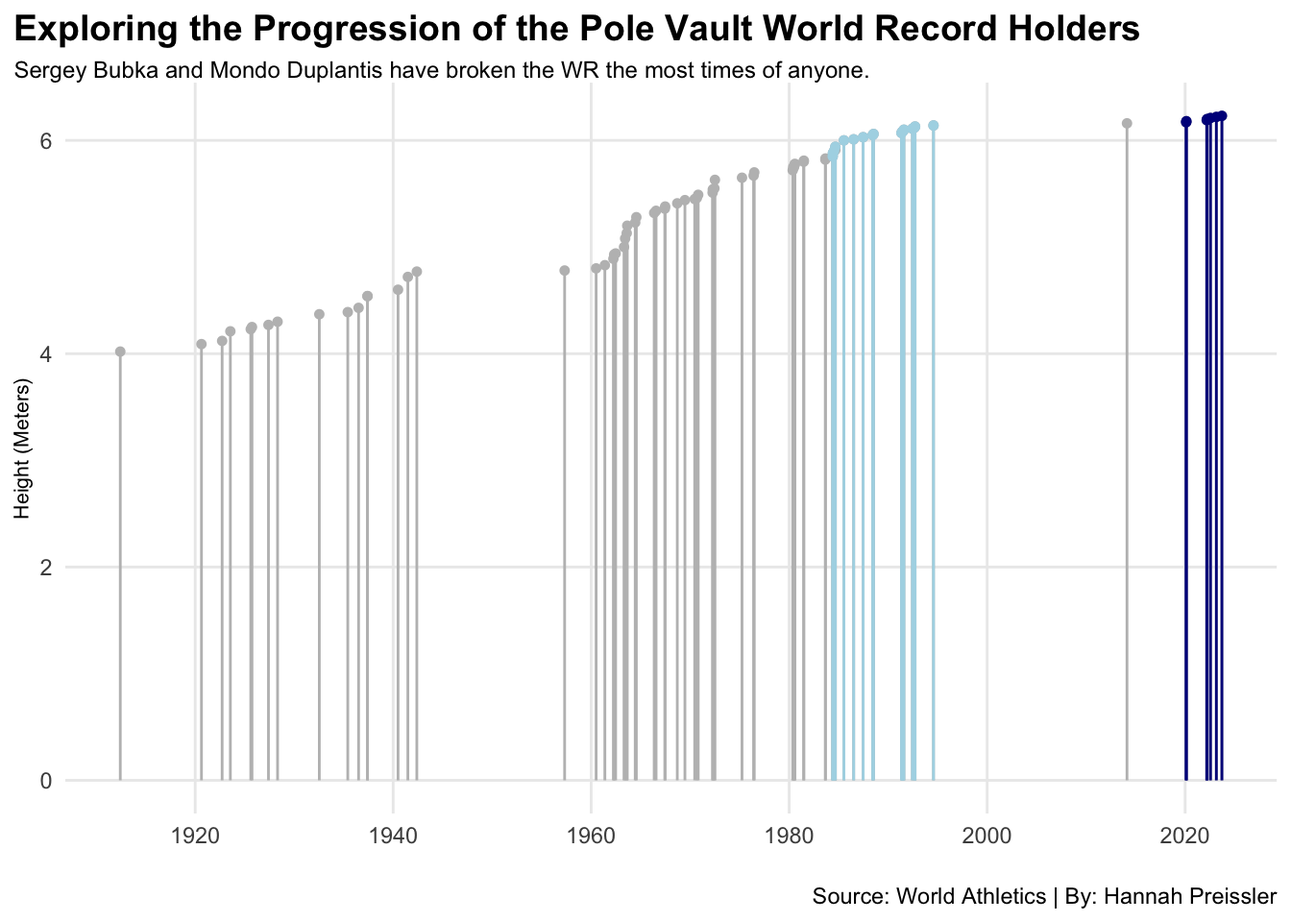
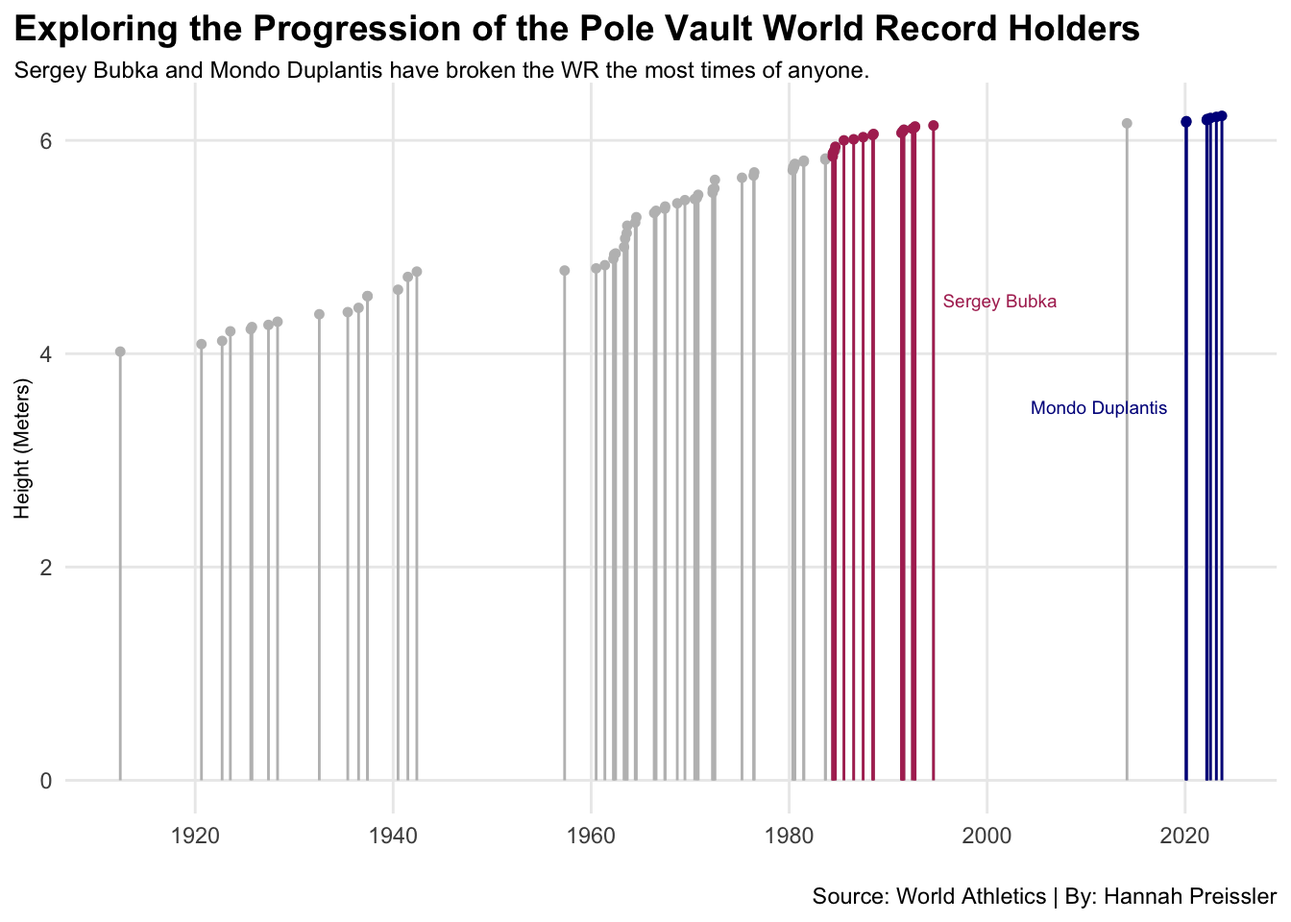
Work

Changed region(s): [[0.625, 0.125, 0.8125, 0.8438], [0.7812, 0.4375, 0.9062, 0.4688]]

diff --git a/posts/mondo-is-the-best-pole-vaulter-in-the-world/index.html b/posts/mondo-is-the-best-pole-vaulter-in-the-world/index.html
@@ -253,8 +253,7 @@ pre > code.sourceCode > span > a:first-child::before { text-decoration: underlin
 <span id="cb1-65"><a href="#cb1-65" aria-hidden="true" tabindex="-1"></a>    <span class="at">axis.title =</span> <span class="fu">element_text</span>(<span class="at">size =</span> <span class="dv">8</span>), </span>
 <span id="cb1-66"><a href="#cb1-66" aria-hidden="true" tabindex="-1"></a>    <span class="at">plot.subtitle =</span> <span class="fu">element_textbox_simple</span>(<span class="at">size=</span><span class="dv">9</span>), </span>
 <span id="cb1-67"><a href="#cb1-67" aria-hidden="true" tabindex="-1"></a>    <span class="at">panel.grid.minor =</span> <span class="fu">element_blank</span>(),</span>
-<span id="cb1-68"><a href="#cb1-68" aria-hidden="true" tabindex="-1"></a>    <span class="at">plot.title.position =</span> <span class="st">"plot"</span></span>
-<span id="cb1-69"><a href="#cb1-69" aria-hidden="true" tabindex="-1"></a>   )</span></code><button title="Copy to Clipboard" class="code-copy-button"><i class="bi"></i></button></pre></div>
+<span id="cb1-68"><a href="#cb1-68" aria-hidden="true" tabindex="-1"></a>    <span class="at">plot.title.position =</span> <span class="st">"plot"</span>)</span></code><button title="Copy to Clipboard" class="code-copy-button"><i class="bi"></i></button></pre></div>
 </details>
 <div class="cell-output-display">
 <p><img src="index_files/figure-html/unnamed-chunk-1-1.png" class="img-fluid" width="672"></p>
@@ -262,7 +261,7 @@ pre > code.sourceCode > span > a:first-child::before { text-decoration: underlin
 </div>
 <p>Understanding the sheer amount of time that he has had to develop as a pole vaulter, is very important when looking at what makes Mondo the best pole vaulter in the world.<br>
 </p>
-<p>With the Olympics being in 2020, (Technically completed in 2021 due to COVID-19) this is a good season to compare Mondo's stats to his competitors. Among the other top ten pro vaulters in the world, Mondo averaged the highest bars cleared, averaged the best place finishes, and competed in the third most meets. He is by far, the most consistent vaulter which allows him to succeed on the runway.</p>
+<p>With the Olympics being in 2020, (Technically completed in 2021 due to COVID-19) this is a good season to compare Mondo’s stats to his competitors. Among the other top ten pro vaulters in the world, Mondo averaged the highest bars cleared, averaged the best place finishes, and competed in the third most meets. He is by far, the most consistent vaulter which allows him to succeed on the runway.</p>
 <div class="cell">
 <details>
 <summary>Code</summary>
@@ -273,40 +272,39 @@ pre > code.sourceCode > span > a:first-child::before { text-decoration: underlin
 <span id="cb2-5"><a href="#cb2-5" aria-hidden="true" tabindex="-1"></a>  <span class="fu">summarize</span>(</span>
 <span id="cb2-6"><a href="#cb2-6" aria-hidden="true" tabindex="-1"></a>    <span class="at">Competitions =</span> <span class="fu">n</span>(),</span>
 <span id="cb2-7"><a href="#cb2-7" aria-hidden="true" tabindex="-1"></a>    <span class="at">AvgResult =</span> <span class="fu">mean</span>(Result),</span>
-<span id="cb2-8"><a href="#cb2-8" aria-hidden="true" tabindex="-1"></a>    <span class="at">AvgPlace =</span> <span class="fu">mean</span>(Place)</span>
-<span id="cb2-9"><a href="#cb2-9" aria-hidden="true" tabindex="-1"></a>  )</span>
-<span id="cb2-10"><a href="#cb2-10" aria-hidden="true" tabindex="-1"></a></span>
-<span id="cb2-11"><a href="#cb2-11" aria-hidden="true" tabindex="-1"></a>mondocomps <span class="ot">&lt;-</span> competitionresults <span class="sc">|&gt;</span> </span>
-<span id="cb2-12"><a href="#cb2-12" aria-hidden="true" tabindex="-1"></a>  <span class="fu">filter</span>(Name <span class="sc">==</span> <span class="st">"Mondo Duplantis"</span>)</span>
-<span id="cb2-13"><a href="#cb2-13" aria-hidden="true" tabindex="-1"></a>chriscomps <span class="ot">&lt;-</span> competitionresults <span class="sc">|&gt;</span></span>
-<span id="cb2-14"><a href="#cb2-14" aria-hidden="true" tabindex="-1"></a>  <span class="fu">filter</span>(<span class="fu">str_trim</span>(Name) <span class="sc">==</span> <span class="st">"Chris Nilsen"</span>)</span>
-<span id="cb2-15"><a href="#cb2-15" aria-hidden="true" tabindex="-1"></a>ernestcomps <span class="ot">&lt;-</span> competitionresults <span class="sc">|&gt;</span></span>
-<span id="cb2-16"><a href="#cb2-16" aria-hidden="true" tabindex="-1"></a>  <span class="fu">filter</span>(Name <span class="sc">==</span> <span class="st">"Ernest John Obiena"</span>)</span>
-<span id="cb2-17"><a href="#cb2-17" aria-hidden="true" tabindex="-1"></a>kccomps <span class="ot">&lt;-</span> competitionresults <span class="sc">|&gt;</span></span>
-<span id="cb2-18"><a href="#cb2-18" aria-hidden="true" tabindex="-1"></a>  <span class="fu">filter</span>(Name<span class="sc">==</span> <span class="st">"KC Lightfoot"</span>)</span>
-<span id="cb2-19"><a href="#cb2-19" aria-hidden="true" tabindex="-1"></a>                      </span>
-<span id="cb2-20"><a href="#cb2-20" aria-hidden="true" tabindex="-1"></a><span class="fu">ggplot</span>() <span class="sc">+</span> </span>
-<span id="cb2-21"><a href="#cb2-21" aria-hidden="true" tabindex="-1"></a>  <span class="fu">geom_point</span>(<span class="at">data=</span>competitionresults,<span class="fu">aes</span>(<span class="at">x=</span>AvgPlace, <span class="at">y=</span>AvgResult, <span class="at">size=</span> Competitions), <span class="at">color=</span><span class="st">"lightgrey"</span>)<span class="sc">+</span></span>
-<span id="cb2-22"><a href="#cb2-22" aria-hidden="true" tabindex="-1"></a>  <span class="fu">geom_point</span>(<span class="at">data=</span>mondocomps, <span class="fu">aes</span>(<span class="at">x=</span>AvgPlace, <span class="at">y=</span>AvgResult, <span class="at">size=</span> Competitions), <span class="at">color=</span><span class="st">"purple"</span>)<span class="sc">+</span></span>
-<span id="cb2-23"><a href="#cb2-23" aria-hidden="true" tabindex="-1"></a>  <span class="fu">geom_point</span>(<span class="at">data=</span>ernestcomps, <span class="fu">aes</span>(<span class="at">x=</span>AvgPlace, <span class="at">y=</span>AvgResult, <span class="at">size=</span> Competitions), <span class="at">color=</span><span class="st">"red"</span>)<span class="sc">+</span></span>
-<span id="cb2-24"><a href="#cb2-24" aria-hidden="true" tabindex="-1"></a>   <span class="fu">geom_point</span>(<span class="at">data=</span>chriscomps, <span class="fu">aes</span>(<span class="at">x=</span>AvgPlace, <span class="at">y=</span>AvgResult, <span class="at">size=</span> Competitions), <span class="at">color=</span><span class="st">"darkblue"</span>)<span class="sc">+</span></span>
-<span id="cb2-25"><a href="#cb2-25" aria-hidden="true" tabindex="-1"></a>  <span class="fu">geom_text_repel</span>(<span class="at">data=</span>mondocomps, <span class="fu">aes</span>(<span class="at">x=</span>AvgPlace, <span class="at">y=</span>AvgResult, <span class="at">label=</span>Name), <span class="at">size =</span> <span class="dv">3</span>) <span class="sc">+</span></span>
-<span id="cb2-26"><a href="#cb2-26" aria-hidden="true" tabindex="-1"></a>  <span class="fu">geom_text_repel</span>(<span class="at">data=</span>chriscomps, <span class="fu">aes</span>(<span class="at">x=</span>AvgPlace, <span class="at">y=</span>AvgResult, <span class="at">label=</span>Name), <span class="at">size =</span> <span class="dv">3</span>) <span class="sc">+</span></span>
-<span id="cb2-27"><a href="#cb2-27" aria-hidden="true" tabindex="-1"></a>  <span class="fu">geom_text_repel</span>(<span class="at">data=</span>ernestcomps, <span class="fu">aes</span>(<span class="at">x=</span>AvgPlace, <span class="at">y=</span>AvgResult, <span class="at">label=</span>Name), <span class="at">size =</span> <span class="dv">3</span>) <span class="sc">+</span></span>
-<span id="cb2-28"><a href="#cb2-28" aria-hidden="true" tabindex="-1"></a>  <span class="fu">geom_text_repel</span>(<span class="at">data=</span>kccomps, <span class="fu">aes</span>(<span class="at">x=</span>AvgPlace, <span class="at">y=</span>AvgResult, <span class="at">label=</span>Name), <span class="at">size =</span> <span class="dv">3</span>) <span class="sc">+</span></span>
-<span id="cb2-29"><a href="#cb2-29" aria-hidden="true" tabindex="-1"></a>    <span class="fu">labs</span>(<span class="at">title =</span> <span class="st">"Top 10 Pro Pole Vaulters: A Spotlight on 2020 Season Achievements"</span>, </span>
-<span id="cb2-30"><a href="#cb2-30" aria-hidden="true" tabindex="-1"></a>    <span class="at">subtitle =</span><span class="st">"Mondo is constantly winning meets and jumping the highest against top performers repeatedly."</span>, </span>
-<span id="cb2-31"><a href="#cb2-31" aria-hidden="true" tabindex="-1"></a>    <span class="at">y=</span><span class="st">"Height (Meters)"</span>, </span>
-<span id="cb2-32"><a href="#cb2-32" aria-hidden="true" tabindex="-1"></a>    <span class="at">x=</span><span class="st">"Aveage Placing at Competitions"</span>,</span>
-<span id="cb2-33"><a href="#cb2-33" aria-hidden="true" tabindex="-1"></a>    <span class="at">caption=</span><span class="st">"Source: World Athletics | By: Hannah Preissler"</span>) <span class="sc">+</span></span>
-<span id="cb2-34"><a href="#cb2-34" aria-hidden="true" tabindex="-1"></a>  <span class="fu">theme_minimal</span>() <span class="sc">+</span></span>
-<span id="cb2-35"><a href="#cb2-35" aria-hidden="true" tabindex="-1"></a>  <span class="fu">theme</span>(</span>
-<span id="cb2-36"><a href="#cb2-36" aria-hidden="true" tabindex="-1"></a>    <span class="at">plot.title =</span> <span class="fu">element_text</span>(<span class="at">size =</span> <span class="dv">14</span>, <span class="at">face =</span> <span class="st">"bold"</span>),</span>
-<span id="cb2-37"><a href="#cb2-37" aria-hidden="true" tabindex="-1"></a>    <span class="at">axis.title =</span> <span class="fu">element_text</span>(<span class="at">size =</span> <span class="dv">8</span>), </span>
-<span id="cb2-38"><a href="#cb2-38" aria-hidden="true" tabindex="-1"></a>    <span class="at">plot.subtitle =</span> <span class="fu">element_textbox_simple</span>(<span class="at">size=</span><span class="dv">9</span>), </span>
-<span id="cb2-39"><a href="#cb2-39" aria-hidden="true" tabindex="-1"></a>    <span class="at">panel.grid.minor =</span> <span class="fu">element_blank</span>(),</span>
-<span id="cb2-40"><a href="#cb2-40" aria-hidden="true" tabindex="-1"></a>    <span class="at">plot.title.position =</span> <span class="st">"plot"</span></span>
-<span id="cb2-41"><a href="#cb2-41" aria-hidden="true" tabindex="-1"></a>  )</span></code><button title="Copy to Clipboard" class="code-copy-button"><i class="bi"></i></button></pre></div>
+<span id="cb2-8"><a href="#cb2-8" aria-hidden="true" tabindex="-1"></a>    <span class="at">AvgPlace =</span> <span class="fu">mean</span>(Place))</span>
+<span id="cb2-9"><a href="#cb2-9" aria-hidden="true" tabindex="-1"></a></span>
+<span id="cb2-10"><a href="#cb2-10" aria-hidden="true" tabindex="-1"></a>mondocomps <span class="ot">&lt;-</span> competitionresults <span class="sc">|&gt;</span> </span>
+<span id="cb2-11"><a href="#cb2-11" aria-hidden="true" tabindex="-1"></a>  <span class="fu">filter</span>(Name <span class="sc">==</span> <span class="st">"Mondo Duplantis"</span>)</span>
+<span id="cb2-12"><a href="#cb2-12" aria-hidden="true" tabindex="-1"></a>chriscomps <span class="ot">&lt;-</span> competitionresults <span class="sc">|&gt;</span></span>
+<span id="cb2-13"><a href="#cb2-13" aria-hidden="true" tabindex="-1"></a>  <span class="fu">filter</span>(<span class="fu">str_trim</span>(Name) <span class="sc">==</span> <span class="st">"Chris Nilsen"</span>)</span>
+<span id="cb2-14"><a href="#cb2-14" aria-hidden="true" tabindex="-1"></a>ernestcomps <span class="ot">&lt;-</span> competitionresults <span class="sc">|&gt;</span></span>
+<span id="cb2-15"><a href="#cb2-15" aria-hidden="true" tabindex="-1"></a>  <span class="fu">filter</span>(Name <span class="sc">==</span> <span class="st">"Ernest John Obiena"</span>)</span>
+<span id="cb2-16"><a href="#cb2-16" aria-hidden="true" tabindex="-1"></a>kccomps <span class="ot">&lt;-</span> competitionresults <span class="sc">|&gt;</span></span>
+<span id="cb2-17"><a href="#cb2-17" aria-hidden="true" tabindex="-1"></a>  <span class="fu">filter</span>(Name<span class="sc">==</span> <span class="st">"KC Lightfoot"</span>)</span>
+<span id="cb2-18"><a href="#cb2-18" aria-hidden="true" tabindex="-1"></a>                      </span>
+<span id="cb2-19"><a href="#cb2-19" aria-hidden="true" tabindex="-1"></a><span class="fu">ggplot</span>() <span class="sc">+</span> </span>
+<span id="cb2-20"><a href="#cb2-20" aria-hidden="true" tabindex="-1"></a>  <span class="fu">geom_point</span>(<span class="at">data=</span>competitionresults,<span class="fu">aes</span>(<span class="at">x=</span>AvgPlace, <span class="at">y=</span>AvgResult, <span class="at">size=</span> Competitions), <span class="at">color=</span><span class="st">"lightgrey"</span>)<span class="sc">+</span></span>
+<span id="cb2-21"><a href="#cb2-21" aria-hidden="true" tabindex="-1"></a>  <span class="fu">geom_point</span>(<span class="at">data=</span>mondocomps, <span class="fu">aes</span>(<span class="at">x=</span>AvgPlace, <span class="at">y=</span>AvgResult, <span class="at">size=</span> Competitions), <span class="at">color=</span><span class="st">"maroon"</span>)<span class="sc">+</span></span>
+<span id="cb2-22"><a href="#cb2-22" aria-hidden="true" tabindex="-1"></a>  <span class="fu">geom_point</span>(<span class="at">data=</span>ernestcomps, <span class="fu">aes</span>(<span class="at">x=</span>AvgPlace, <span class="at">y=</span>AvgResult, <span class="at">size=</span> Competitions), <span class="at">color=</span><span class="st">"lightblue"</span>)<span class="sc">+</span></span>
+<span id="cb2-23"><a href="#cb2-23" aria-hidden="true" tabindex="-1"></a>   <span class="fu">geom_point</span>(<span class="at">data=</span>chriscomps, <span class="fu">aes</span>(<span class="at">x=</span>AvgPlace, <span class="at">y=</span>AvgResult, <span class="at">size=</span> Competitions), <span class="at">color=</span><span class="st">"darkblue"</span>)<span class="sc">+</span></span>
+<span id="cb2-24"><a href="#cb2-24" aria-hidden="true" tabindex="-1"></a>  <span class="fu">geom_text_repel</span>(<span class="at">data=</span>mondocomps, <span class="fu">aes</span>(<span class="at">x=</span>AvgPlace, <span class="at">y=</span>AvgResult, <span class="at">label=</span>Name), <span class="at">size =</span> <span class="dv">3</span>) <span class="sc">+</span></span>
+<span id="cb2-25"><a href="#cb2-25" aria-hidden="true" tabindex="-1"></a>  <span class="fu">geom_text_repel</span>(<span class="at">data=</span>chriscomps, <span class="fu">aes</span>(<span class="at">x=</span>AvgPlace, <span class="at">y=</span>AvgResult, <span class="at">label=</span>Name), <span class="at">size =</span> <span class="dv">3</span>) <span class="sc">+</span></span>
+<span id="cb2-26"><a href="#cb2-26" aria-hidden="true" tabindex="-1"></a>  <span class="fu">geom_text_repel</span>(<span class="at">data=</span>ernestcomps, <span class="fu">aes</span>(<span class="at">x=</span>AvgPlace, <span class="at">y=</span>AvgResult, <span class="at">label=</span>Name), <span class="at">size =</span> <span class="dv">3</span>) <span class="sc">+</span></span>
+<span id="cb2-27"><a href="#cb2-27" aria-hidden="true" tabindex="-1"></a>  <span class="fu">geom_text_repel</span>(<span class="at">data=</span>kccomps, <span class="fu">aes</span>(<span class="at">x=</span>AvgPlace, <span class="at">y=</span>AvgResult, <span class="at">label=</span>Name), <span class="at">size =</span> <span class="dv">3</span>) <span class="sc">+</span></span>
+<span id="cb2-28"><a href="#cb2-28" aria-hidden="true" tabindex="-1"></a>    <span class="fu">labs</span>(<span class="at">title =</span> <span class="st">"Top 10 Pro Pole Vaulters: A Spotlight on 2020 Season Achievements"</span>, </span>
+<span id="cb2-29"><a href="#cb2-29" aria-hidden="true" tabindex="-1"></a>    <span class="at">subtitle =</span><span class="st">"Mondo is constantly winning meets and jumping the highest against top performers repeatedly."</span>, </span>
+<span id="cb2-30"><a href="#cb2-30" aria-hidden="true" tabindex="-1"></a>    <span class="at">y=</span><span class="st">"Height (Meters)"</span>, </span>
+<span id="cb2-31"><a href="#cb2-31" aria-hidden="true" tabindex="-1"></a>    <span class="at">x=</span><span class="st">"Aveage Placing at Competitions"</span>,</span>
+<span id="cb2-32"><a href="#cb2-32" aria-hidden="true" tabindex="-1"></a>    <span class="at">caption=</span><span class="st">"Source: World Athletics | By: Hannah Preissler"</span>) <span class="sc">+</span></span>
+<span id="cb2-33"><a href="#cb2-33" aria-hidden="true" tabindex="-1"></a>  <span class="fu">theme_minimal</span>() <span class="sc">+</span></span>
+<span id="cb2-34"><a href="#cb2-34" aria-hidden="true" tabindex="-1"></a>  <span class="fu">theme</span>(</span>
+<span id="cb2-35"><a href="#cb2-35" aria-hidden="true" tabindex="-1"></a>    <span class="at">plot.title =</span> <span class="fu">element_text</span>(<span class="at">size =</span> <span class="dv">14</span>, <span class="at">face =</span> <span class="st">"bold"</span>),</span>
+<span id="cb2-36"><a href="#cb2-36" aria-hidden="true" tabindex="-1"></a>    <span class="at">axis.title =</span> <span class="fu">element_text</span>(<span class="at">size =</span> <span class="dv">8</span>), </span>
+<span id="cb2-37"><a href="#cb2-37" aria-hidden="true" tabindex="-1"></a>    <span class="at">plot.subtitle =</span> <span class="fu">element_textbox_simple</span>(<span class="at">size=</span><span class="dv">9</span>), </span>
+<span id="cb2-38"><a href="#cb2-38" aria-hidden="true" tabindex="-1"></a>    <span class="at">panel.grid.minor =</span> <span class="fu">element_blank</span>(),</span>
+<span id="cb2-39"><a href="#cb2-39" aria-hidden="true" tabindex="-1"></a>    <span class="at">plot.title.position =</span> <span class="st">"plot"</span></span>
+<span id="cb2-40"><a href="#cb2-40" aria-hidden="true" tabindex="-1"></a>  )</span></code><button title="Copy to Clipboard" class="code-copy-button"><i class="bi"></i></button></pre></div>
 </details>
 <div class="cell-output-display">
 <p><img src="index_files/figure-html/unnamed-chunk-2-1.png" class="img-fluid" width="672"></p>
@@ -314,8 +312,8 @@ pre > code.sourceCode > span > a:first-child::before { text-decoration: underlin
 </div>
 <p>The final component that contributes to Mondo being the most dominant pole vaulter is his ability to break the world record… more than once.</p>
 <p>The world record data dates back to 1912 and has been pushed higher and higher throughout the years while being passed from athlete to athlete with two standing out among the others.</p>
-<p>Sergey Bubka is a former Ukrainian pole vaulter who pioneered the sport. Many vaulters look to him as the picture of technique when it comes to vaulting. Sergey first broke the world record in 1984 clearing 5.94 m (19’5”). He continued to break his world record sixteen more times over his career clearing 6.14 m (20’1”). Sergey’s world record reign is highlighted by the light blue lines.</p>
-<p>Mondo took off right where Sergey left off. Again, in his rookie year, he broke the world record by clearing 6.17 m (20’2”). He has continued to break this record six times since 2020.</p>
+<p>Sergey Bubka is a former Ukrainian pole vaulter who pioneered the sport. Many vaulters look to him as the picture of technique when it comes to vaulting. Sergey first broke the world record in 1984 clearing 5.94 m (19’5”). He continued to break his world record sixteen more times over his career clearing 6.14 m (20’1”). Sergey’s world record reign is highlighted by the maroon lines.</p>
+<p>Mondo took off right where Sergey left off. Again, in his rookie year, he broke the world record by clearing 6.17 m (20’2”). He has continued to break this record six times since 2020. Mondo’s world records are highlighted by the dark blue lines.</p>
 <div class="cell">
 <details>
 <summary>Code</summary>
@@ -331,28 +329,28 @@ pre > code.sourceCode > span > a:first-child::before { text-decoration: underlin
 <span id="cb3-10"><a href="#cb3-10" aria-hidden="true" tabindex="-1"></a></span>
 <span id="cb3-11"><a href="#cb3-11" aria-hidden="true" tabindex="-1"></a><span class="fu">ggplot</span>() <span class="sc">+</span> </span>
 <span id="cb3-12"><a href="#cb3-12" aria-hidden="true" tabindex="-1"></a>  <span class="fu">geom_lollipop</span>(<span class="at">data=</span>worldrecord, <span class="fu">aes</span>(<span class="at">y=</span>Meters, <span class="at">x=</span>Date), <span class="at">horizontal =</span> <span class="cn">FALSE</span>, <span class="at">color =</span><span class="st">"grey"</span>)<span class="sc">+</span></span>
-<span id="cb3-13"><a href="#cb3-13" aria-hidden="true" tabindex="-1"></a>  <span class="fu">geom_lollipop</span>(<span class="at">data=</span>sergeywr, <span class="fu">aes</span>(<span class="at">y=</span>Meters, <span class="at">x=</span>Date), <span class="at">horizontal =</span> <span class="cn">FALSE</span>, <span class="at">color=</span><span class="st">"lightblue"</span>)<span class="sc">+</span></span>
-<span id="cb3-14"><a href="#cb3-14" aria-hidden="true" tabindex="-1"></a>   <span class="fu">geom_lollipop</span>(<span class="at">data=</span>mondowr, <span class="fu">aes</span>(<span class="at">y=</span>Meters, <span class="at">x=</span>Date), <span class="at">horizontal =</span> <span class="cn">FALSE</span>, <span class="at">color=</span><span class="st">"darkblue"</span>)<span class="sc">+</span></span>
-<span id="cb3-15"><a href="#cb3-15" aria-hidden="true" tabindex="-1"></a>  <span class="fu">labs</span>(<span class="at">title =</span> <span class="st">"Exploring the Progression of the Pole Vault World Record Holders"</span>, </span>
-<span id="cb3-16"><a href="#cb3-16" aria-hidden="true" tabindex="-1"></a>    <span class="at">subtitle =</span><span class="st">"Sergey Bubka and Mondo Duplantis have broken the WR the most times of anyone."</span>, </span>
-<span id="cb3-17"><a href="#cb3-17" aria-hidden="true" tabindex="-1"></a>    <span class="at">y=</span><span class="st">"Height (Meters)"</span>, </span>
-<span id="cb3-18"><a href="#cb3-18" aria-hidden="true" tabindex="-1"></a>    <span class="at">x=</span><span class="st">""</span>,</span>
-<span id="cb3-19"><a href="#cb3-19" aria-hidden="true" tabindex="-1"></a>    <span class="at">caption=</span><span class="st">"Source: World Athletics | By: Hannah Preissler"</span>) <span class="sc">+</span></span>
-<span id="cb3-20"><a href="#cb3-20" aria-hidden="true" tabindex="-1"></a>  <span class="fu">theme_minimal</span>() <span class="sc">+</span></span>
-<span id="cb3-21"><a href="#cb3-21" aria-hidden="true" tabindex="-1"></a>  <span class="fu">theme</span>(</span>
-<span id="cb3-22"><a href="#cb3-22" aria-hidden="true" tabindex="-1"></a>    <span class="at">plot.title =</span> <span class="fu">element_text</span>(<span class="at">size =</span> <span class="dv">14</span>, <span class="at">face =</span> <span class="st">"bold"</span>),</span>
-<span id="cb3-23"><a href="#cb3-23" aria-hidden="true" tabindex="-1"></a>    <span class="at">axis.title =</span> <span class="fu">element_text</span>(<span class="at">size =</span> <span class="dv">8</span>), </span>
-<span id="cb3-24"><a href="#cb3-24" aria-hidden="true" tabindex="-1"></a>    <span class="at">plot.subtitle =</span> <span class="fu">element_textbox_simple</span>(<span class="at">size=</span><span class="dv">9</span>), </span>
-<span id="cb3-25"><a href="#cb3-25" aria-hidden="true" tabindex="-1"></a>    <span class="at">panel.grid.minor =</span> <span class="fu">element_blank</span>(),</span>
-<span id="cb3-26"><a href="#cb3-26" aria-hidden="true" tabindex="-1"></a>    <span class="at">plot.title.position =</span> <span class="st">"plot"</span></span>
-<span id="cb3-27"><a href="#cb3-27" aria-hidden="true" tabindex="-1"></a>  )</span></code><button title="Copy to Clipboard" class="code-copy-button"><i class="bi"></i></button></pre></div>
+<span id="cb3-13"><a href="#cb3-13" aria-hidden="true" tabindex="-1"></a>  <span class="fu">geom_lollipop</span>(<span class="at">data=</span>sergeywr, <span class="fu">aes</span>(<span class="at">y=</span>Meters, <span class="at">x=</span>Date), <span class="at">horizontal =</span> <span class="cn">FALSE</span>, <span class="at">color=</span><span class="st">"maroon"</span>)<span class="sc">+</span></span>
+<span id="cb3-14"><a href="#cb3-14" aria-hidden="true" tabindex="-1"></a>  <span class="fu">geom_lollipop</span>(<span class="at">data=</span>mondowr, <span class="fu">aes</span>(<span class="at">y=</span>Meters, <span class="at">x=</span>Date), <span class="at">horizontal =</span> <span class="cn">FALSE</span>, <span class="at">color=</span><span class="st">"darkblue"</span>)<span class="sc">+</span></span>
+<span id="cb3-15"><a href="#cb3-15" aria-hidden="true" tabindex="-1"></a>  <span class="fu">geom_text</span>(<span class="fu">aes</span>(<span class="at">x=</span><span class="fu">as.Date</span>(<span class="st">"2001-05-01"</span>), <span class="at">y=</span><span class="fl">4.5</span>, <span class="at">label=</span><span class="st">"Sergey Bubka"</span>), <span class="at">color=</span><span class="st">"maroon"</span>, <span class="at">size=</span> <span class="fl">2.5</span>) <span class="sc">+</span></span>
+<span id="cb3-16"><a href="#cb3-16" aria-hidden="true" tabindex="-1"></a>  <span class="fu">geom_text</span>(<span class="fu">aes</span>(<span class="at">x=</span><span class="fu">as.Date</span>(<span class="st">"2011-05-01"</span>), <span class="at">y=</span><span class="fl">3.5</span>, <span class="at">label=</span><span class="st">"Mondo Duplantis"</span>), <span class="at">color=</span><span class="st">"darkblue"</span>, <span class="at">size=</span> <span class="fl">2.5</span>) <span class="sc">+</span></span>
+<span id="cb3-17"><a href="#cb3-17" aria-hidden="true" tabindex="-1"></a>  <span class="fu">labs</span>(<span class="at">title =</span> <span class="st">"Exploring the Progression of the Pole Vault World Record Holders"</span>, </span>
+<span id="cb3-18"><a href="#cb3-18" aria-hidden="true" tabindex="-1"></a>    <span class="at">subtitle =</span><span class="st">"Sergey Bubka and Mondo Duplantis have broken the WR the most times of anyone."</span>, </span>
+<span id="cb3-19"><a href="#cb3-19" aria-hidden="true" tabindex="-1"></a>    <span class="at">y=</span><span class="st">"Height (Meters)"</span>, </span>
+<span id="cb3-20"><a href="#cb3-20" aria-hidden="true" tabindex="-1"></a>    <span class="at">x=</span><span class="st">""</span>,</span>
+<span id="cb3-21"><a href="#cb3-21" aria-hidden="true" tabindex="-1"></a>    <span class="at">caption=</span><span class="st">"Source: World Athletics | By: Hannah Preissler"</span>) <span class="sc">+</span></span>
+<span id="cb3-22"><a href="#cb3-22" aria-hidden="true" tabindex="-1"></a>  <span class="fu">theme_minimal</span>() <span class="sc">+</span></span>
+<span id="cb3-23"><a href="#cb3-23" aria-hidden="true" tabindex="-1"></a>  <span class="fu">theme</span>(</span>
+<span id="cb3-24"><a href="#cb3-24" aria-hidden="true" tabindex="-1"></a>    <span class="at">plot.title =</span> <span class="fu">element_text</span>(<span class="at">size =</span> <span class="dv">14</span>, <span class="at">face =</span> <span class="st">"bold"</span>),</span>
+<span id="cb3-25"><a href="#cb3-25" aria-hidden="true" tabindex="-1"></a>    <span class="at">axis.title =</span> <span class="fu">element_text</span>(<span class="at">size =</span> <span class="dv">8</span>), </span>
+<span id="cb3-26"><a href="#cb3-26" aria-hidden="true" tabindex="-1"></a>    <span class="at">plot.subtitle =</span> <span class="fu">element_textbox_simple</span>(<span class="at">size=</span><span class="dv">9</span>), </span>
+<span id="cb3-27"><a href="#cb3-27" aria-hidden="true" tabindex="-1"></a>    <span class="at">panel.grid.minor =</span> <span class="fu">element_blank</span>(),</span>
+<span id="cb3-28"><a href="#cb3-28" aria-hidden="true" tabindex="-1"></a>    <span class="at">plot.title.position =</span> <span class="st">"plot"</span>)</span></code><button title="Copy to Clipboard" class="code-copy-button"><i class="bi"></i></button></pre></div>
 </details>
 <div class="cell-output-display">
 <p><img src="index_files/figure-html/unnamed-chunk-3-1.png" class="img-fluid" width="672"></p>
 </div>
 </div>
-<p>Mondo’s impressive pole vault career is far from over, making him the current best pole vaulter in the world.</p>
-<p>Will the rest of his career write him the title of being the all-time best pole vaulter in the world?</p>
+<p>Mondo’s impressive pole vault career is far from over, making him the current best pole vaulter in the world. Will the rest of his career write him the title of being the all-time best pole vaulter in the world?</p>
 
 
 
